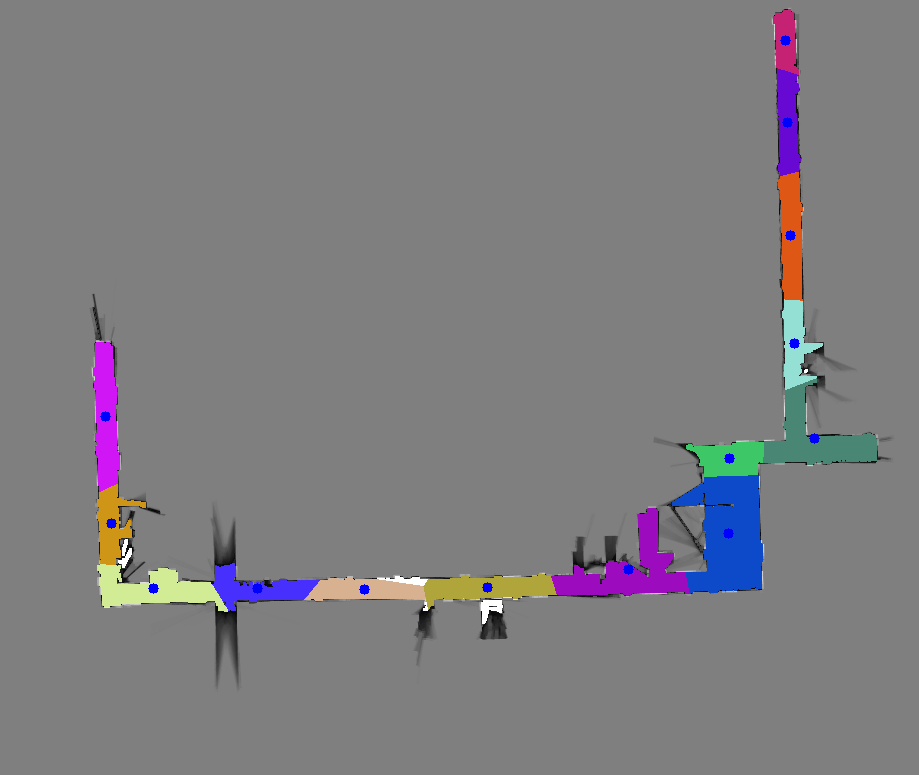
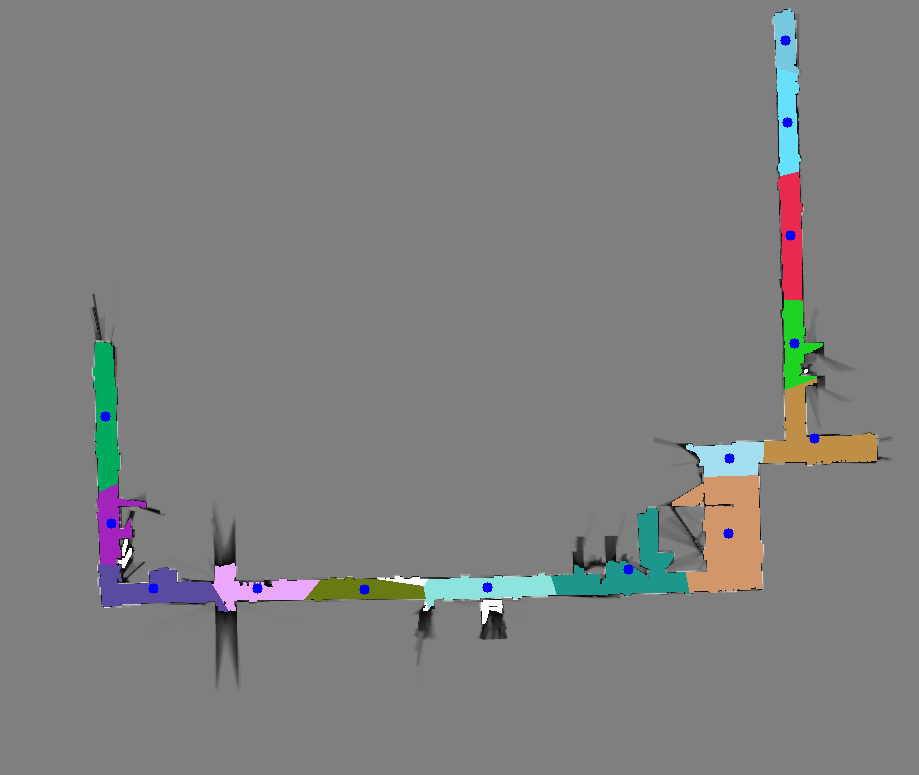
add result img

Changed region(s): [[0.0914, 0.0, 0.975, 0.8052]]

diff --git a/README.md b/README.md
@@ -19,4 +19,4 @@ input map:
 ![input image](./skku7th.pgm)
 
 output map:
-![output image](./output.png)
+![output image](./output_map.png)
